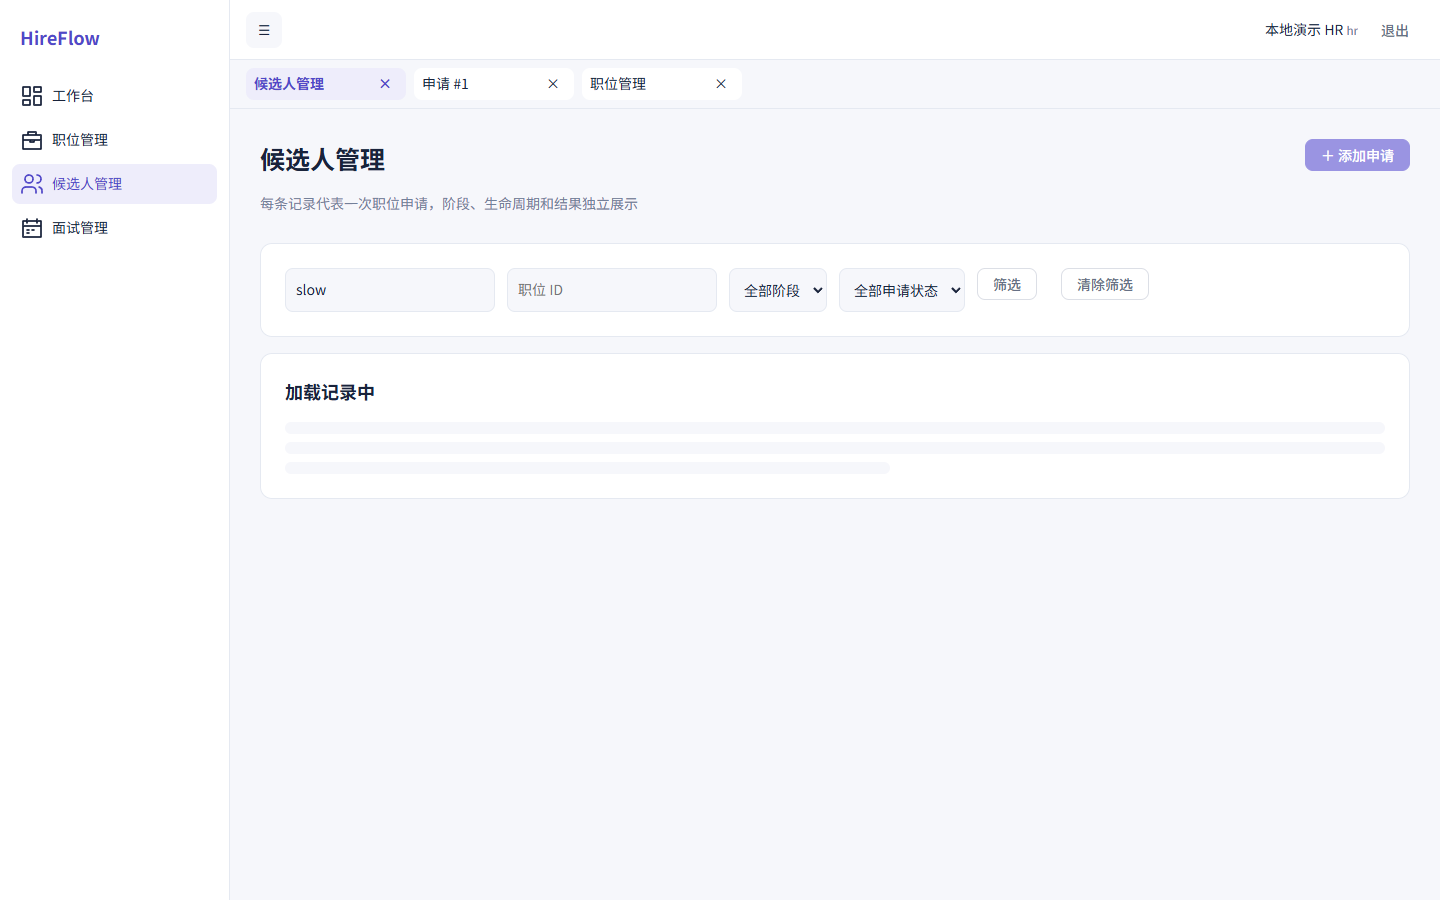
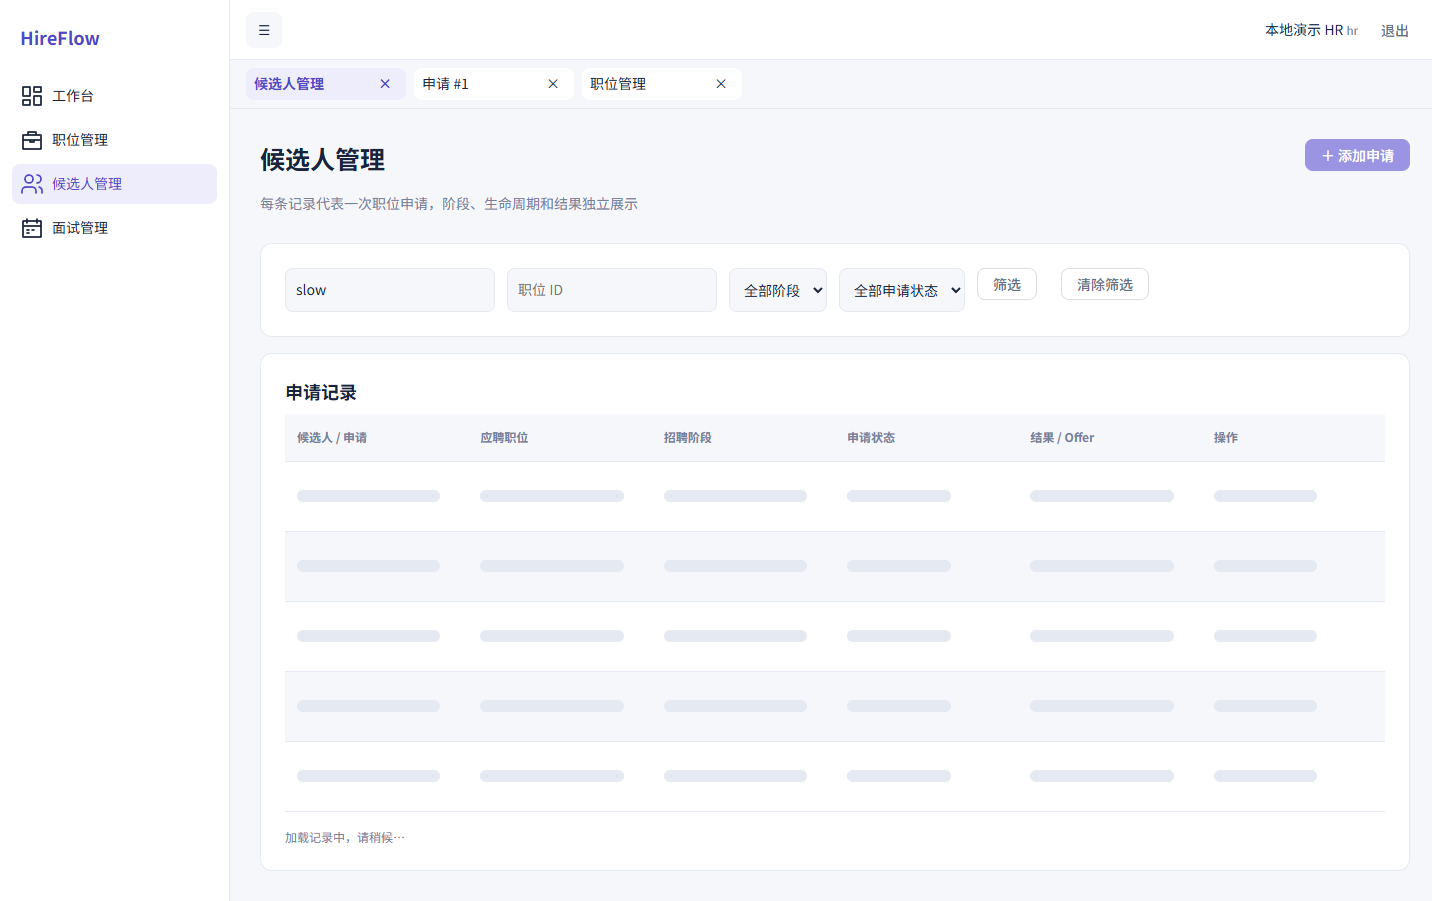
fix(v3): retain application table structure while loading

diff --git a/src/views/V3Recruiting.vue b/src/views/V3Recruiting.vue
@@ -61,7 +61,36 @@
       @close="editor = null"
       @saved="saved"
     />
-    <V3Feedback v-if="loading" state="loading" :title="isDetail ? '读取详情中' : '加载记录中'" />
+    <section
+      v-if="loading && !positions && !isDetail"
+      class="v3-card v3-application-loading"
+      aria-busy="true"
+      aria-labelledby="application-loading-title"
+    >
+      <h2 id="application-loading-title">申请记录</h2>
+      <div class="v3-table-scroll">
+        <table aria-label="申请记录加载中">
+          <thead>
+            <tr>
+              <th v-for="column in applicationColumns" :key="column" scope="col">{{ column }}</th>
+            </tr>
+          </thead>
+          <tbody aria-hidden="true">
+            <tr v-for="row in 5" :key="row" class="v3-loading-row">
+              <td v-for="column in applicationColumns" :key="column">
+                <span class="v3-loading-cell" />
+              </td>
+            </tr>
+          </tbody>
+        </table>
+      </div>
+      <p role="status">加载记录中，请稍候…</p>
+    </section>
+    <V3Feedback
+      v-else-if="loading"
+      state="loading"
+      :title="isDetail ? '读取详情中' : '加载记录中'"
+    />
     <V3Feedback
       v-else-if="error"
       state="error"
@@ -248,6 +277,14 @@ const offset = computed(() =>
 const filtered = computed(() =>
   Object.keys(route.query).some((key) => key !== 'offset' && route.query[key])
 )
+const applicationColumns = [
+  '候选人 / 申请',
+  '应聘职位',
+  '招聘阶段',
+  '申请状态',
+  '结果 / Offer',
+  '操作'
+]
 const stages = ['screening', 'first_interview', 'second_interview', 'offer']
 const detailFields = [
   ['positionTitle', '应聘职位'],

diff --git a/src/styles/v3-recruiting.scss b/src/styles/v3-recruiting.scss
@@ -92,3 +92,29 @@
     }
   }
 }
+
+.v3-recruiting .v3-application-loading {
+  table {
+    min-width: 730px;
+    table-layout: fixed;
+  }
+  td {
+    height: 70px;
+  }
+  .v3-loading-cell {
+    display: block;
+    width: 90%;
+    height: 12px;
+    border-radius: 6px;
+    background: var(--v3-border);
+  }
+  td:nth-child(4) .v3-loading-cell,
+  td:nth-child(6) .v3-loading-cell {
+    width: 65%;
+  }
+  p {
+    margin: 16px 0 0;
+    color: var(--v3-muted);
+    font-size: 12px;
+  }
+}

diff --git a/docs/review/e3-ui-02/README.md b/docs/review/e3-ui-02/README.md
@@ -45,3 +45,15 @@ The position filter uses a stable numeric ID. Department search uses the existin
 The draft survives temporary failures while mounted. Explicit confirmed navigation, logout or refresh can discard it. An unresolved write warns that the server may already have saved it and advises checking existing records before creating again. Drafts and command keys are not transferred to another account.
 
 Actual mobile hardware, complete AC acceptance and design-side visual approval remain pending.
+
+## D2-P1-01 loading fix evidence
+
+The application-list loading branch now retains the page heading, filter values and all six existing list columns. Five rows contain thirty skeleton cells. No record identities, counts, lifecycle values or actionable record buttons are shown in the loading region. The region uses aria-busy, a labelled table, hidden decorative rows and a loading status message.
+
+The isolated Chromium script was rerun after this fix. It asserts all six header labels, five rows and thirty cells, the absence of stale record actions, retained search context, loading semantics, removal of the skeleton after the newer result arrives, delayed-response rejection and unmount protection. The same loading table was tested at 390px with horizontal scrolling confined to its container. Existing failure/retry and SQL pagination assertions also passed.
+
+Only applications-loading.png was refreshed from that run. Its viewport is 1440 by 900 with DPR 1. The other screenshots remain evidence of the earlier UI-02 run.
+
+Quality gates for this fix passed: pnpm test 155/155, vue-tsc, lint, build, changed-file Prettier and git diff --check. Lint reports the existing Dashboard attribute-order warning. The deliberate dropped-response fixture continues to log expected socket-hang-up diagnostics.
+
+Position management and application-detail loading retain their existing branches. This evidence is submitted for control A and design-side confirmation of D2-P1-01.
